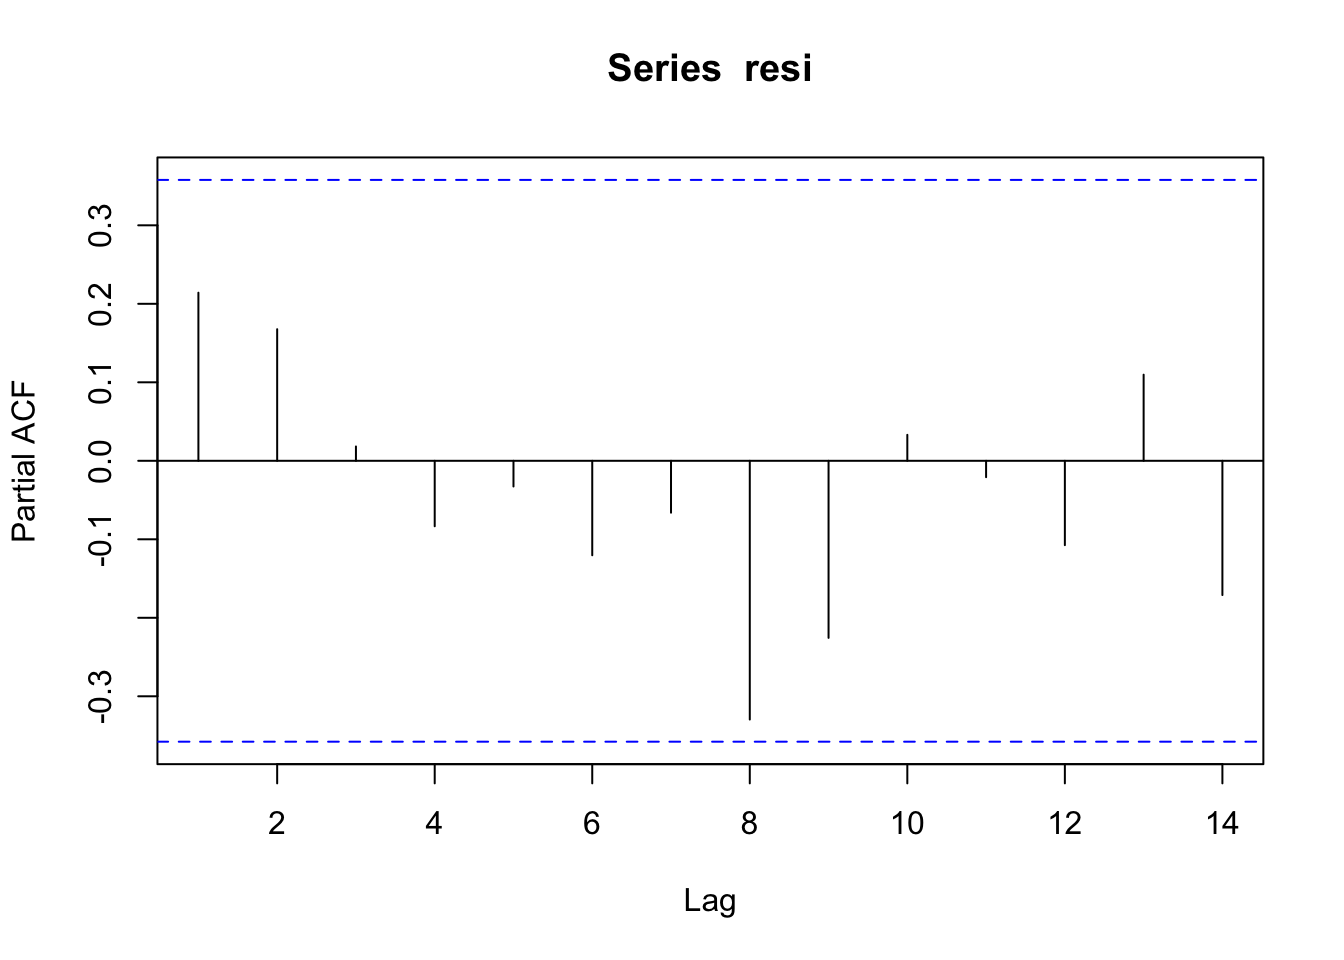
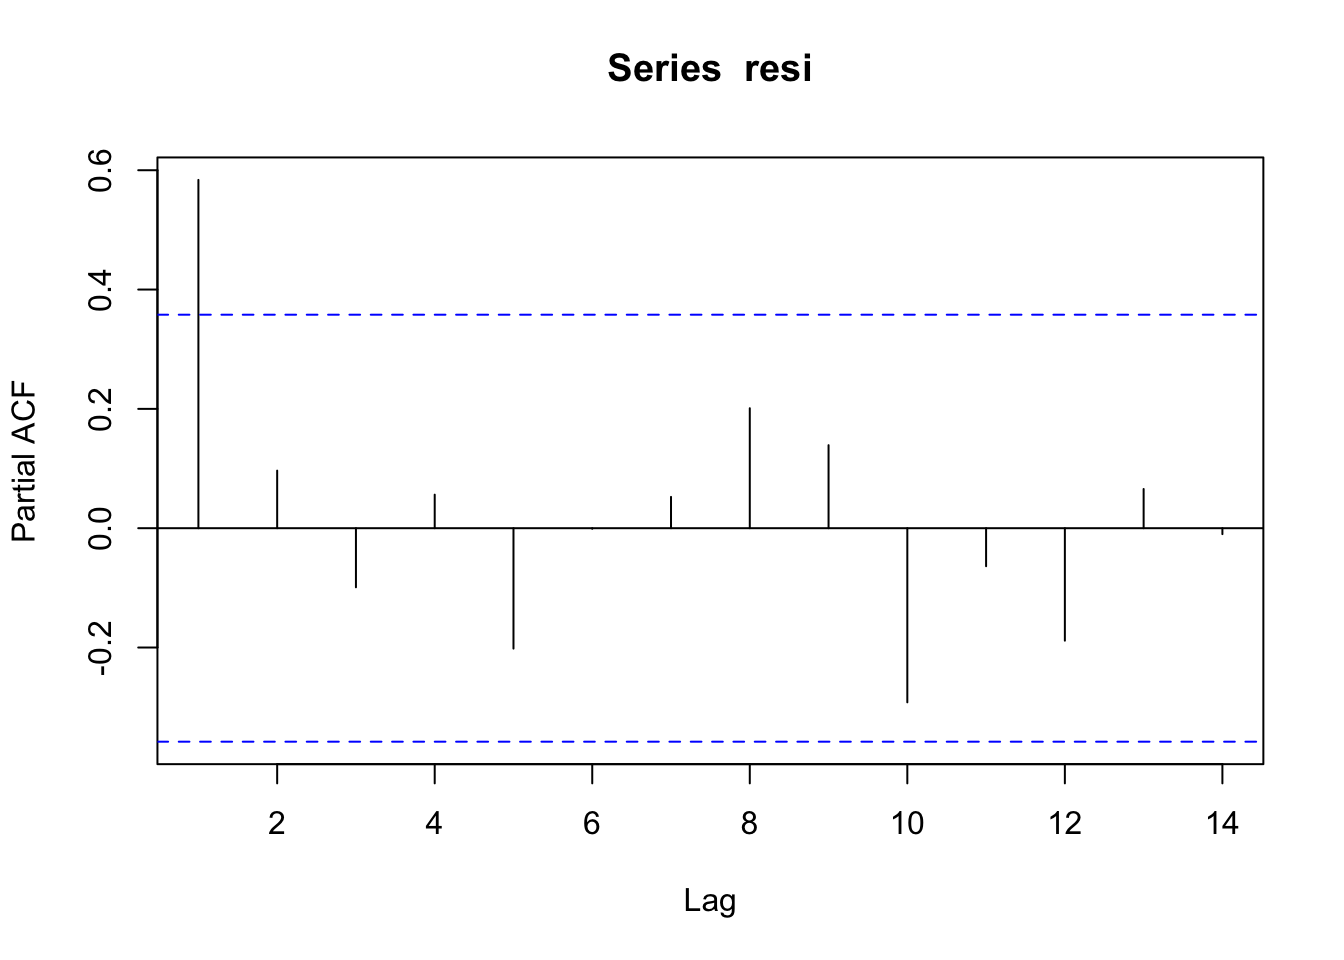
add sampling list hist

diff --git a/autocorrelation.html b/autocorrelation.html
@@ -211,7 +211,7 @@ x &lt;- mvrnorm(n=m,mu=c(0.05,0.08),
              Sigma=matrix(c(0.0004,0.00023,0.00023,0.0006),
                           nrow=2,ncol=2,byrow=TRUE))
 ## assuming correlation in x
-et &lt;- arima.sim(list(order = c(1,0,0),ar=0.6),n=m,rand.gen=rnorm,sd=0.1)
+et &lt;- arima.sim(list(order = c(1,0,0),ar=0.8),n=m,rand.gen=rnorm,sd=0.1)
 yt &lt;- 1.2 + x %*% c(2.2,2.3)+et</code></pre>
 <p>Then we do regress <span class="math inline">\(y\)</span> on <span class="math inline">\(x\)</span> using OLS:</p>
 <pre class="r"><code>regressY &lt;- lm(yt~x)
@@ -221,23 +221,23 @@ summary(regressY)</code></pre>
 ## lm(formula = yt ~ x)
 ## 
 ## Residuals:
-##       Min        1Q    Median        3Q       Max 
-## -0.168331 -0.042144 -0.009908  0.068907  0.141394 
+##      Min       1Q   Median       3Q      Max 
+## -0.24428 -0.10017 -0.02142  0.10538  0.25183 
 ## 
 ## Coefficients:
 ##             Estimate Std. Error t value Pr(&gt;|t|)    
-## (Intercept)  1.13217    0.04554  24.859   &lt;2e-16 ***
-## x1           3.20209    0.92466   3.463   0.0018 ** 
-## x2           1.79299    0.68483   2.618   0.0143 *  
+## (Intercept)   1.1425     0.1088  10.497 4.97e-11 ***
+## x1            0.9243     1.5586   0.593    0.558    
+## x2            1.7082     1.0553   1.619    0.117    
 ## ---
 ## Signif. codes:  0 &#39;***&#39; 0.001 &#39;**&#39; 0.01 &#39;*&#39; 0.05 &#39;.&#39; 0.1 &#39; &#39; 1
 ## 
-## Residual standard error: 0.08294 on 27 degrees of freedom
-## Multiple R-squared:  0.6597, Adjusted R-squared:  0.6345 
-## F-statistic: 26.17 on 2 and 27 DF,  p-value: 4.782e-07</code></pre>
+## Residual standard error: 0.1348 on 27 degrees of freedom
+## Multiple R-squared:  0.1069, Adjusted R-squared:  0.04074 
+## F-statistic: 1.616 on 2 and 27 DF,  p-value: 0.2173</code></pre>
 <pre class="r"><code>regressY$coefficients</code></pre>
 <pre><code>## (Intercept)          x1          x2 
-##    1.132170    3.202087    1.792995</code></pre>
+##   1.1424701   0.9243041   1.7081606</code></pre>
 <p>Test the autocorrelation of residuals</p>
 <pre class="r"><code>resi &lt;- regressY$residuals
 pacf(resi)</code></pre>
@@ -249,13 +249,13 @@ pacf(resi)</code></pre>
 ## 
 ## Coefficients:
 ##       1        2        3        4        5        6        7        8  
-## -0.8249  -0.0756   0.1893  -0.5216   0.3255  -0.4818   0.8980  -0.4992  
-##       9       10       11       12       13       14  
-## -0.5066  -0.4612   0.0382   0.0729   0.9104  -0.8450  
+## -0.0152   0.1750  -0.1762   0.6447  -0.0145  -0.4063  -0.1430   0.1080  
+##       9       10       11       12       13  
+##  0.2367  -0.0468  -0.2621  -0.3969   0.2010  
 ## 
-## Intercept: 0.01136 (0.006316) 
+## Intercept: -0.05098 (0.01314) 
 ## 
-## Order selected 14  sigma^2 estimated as  0.0001309</code></pre>
+## Order selected 13  sigma^2 estimated as  0.001209</code></pre>
 <p>Do GLS</p>
 <p><span class="math display">\[y_t - \rho y_{t-1} = \alpha (1-\rho) + \beta_1(x_{1,t} - \rho  x_{1,t-1}) + \beta_2 (x_{2,t} - \rho  x_{2,t-1}) + w\]</span></p>
 <pre class="r"><code>## regress on resi hat
@@ -275,23 +275,27 @@ summary(regressY_GLS)</code></pre>
 ## 
 ## Residuals:
 ##       Min        1Q    Median        3Q       Max 
-## -0.161980 -0.032130 -0.006371  0.051233  0.168447 
+## -0.131503 -0.070833 -0.005986  0.030568  0.195638 
 ## 
 ## Coefficients:
 ##             Estimate Std. Error t value Pr(&gt;|t|)    
-## (Intercept)  0.87518    0.03602  24.295  &lt; 2e-16 ***
-## xprime1      2.49002    0.92270   2.699  0.01207 *  
-## xprime2      2.13367    0.63338   3.369  0.00236 ** 
+## (Intercept)   0.4112     0.0314  13.093 5.93e-13 ***
+## xprime1       2.3011     0.8793   2.617 0.014592 *  
+## xprime2       2.5518     0.6115   4.173 0.000297 ***
 ## ---
 ## Signif. codes:  0 &#39;***&#39; 0.001 &#39;**&#39; 0.01 &#39;*&#39; 0.05 &#39;.&#39; 0.1 &#39; &#39; 1
 ## 
-## Residual standard error: 0.08028 on 26 degrees of freedom
-## Multiple R-squared:  0.6401, Adjusted R-squared:  0.6124 
-## F-statistic: 23.12 on 2 and 26 DF,  p-value: 1.702e-06</code></pre>
+## Residual standard error: 0.09233 on 26 degrees of freedom
+## Multiple R-squared:  0.4874, Adjusted R-squared:  0.4479 
+## F-statistic: 12.36 on 2 and 26 DF,  p-value: 0.0001688</code></pre>
 <pre class="r"><code>alpha &lt;- regressY_GLS$coefficients[1]/(1-rho)
 alpha</code></pre>
 <pre><code>## (Intercept) 
-##    1.137018</code></pre>
+##   0.9882015</code></pre>
+<p>See if the residuals of GLS has autocorrelation:</p>
+<pre class="r"><code>resiGLS &lt;- regressY_GLS$residuals
+pacf(resiGLS)</code></pre>
+<p><img src="autocorrelation_files/figure-html/unnamed-chunk-5-1.png" width="672" /></p>
 <p>We redo the above steps for n times:</p>
 <pre class="r"><code>n=2000
 OLS_coefs &lt;- matrix(nrow=n,ncol=3)
@@ -301,7 +305,7 @@ for(i in 1:n) {
                Sigma=matrix(c(0.0004,0.00023,0.00023,0.0006),
                             nrow=2,ncol=2,byrow=TRUE))
   ## assuming autocorrelation in x
-  et &lt;- arima.sim(list(order = c(1,0,0),ar=0.6),n=m,rand.gen=rnorm,sd=0.1)
+  et &lt;- arima.sim(list(order = c(1,0,0),ar=0.8),n=m,rand.gen=rnorm,sd=0.1)
   yt &lt;- 1.2 + x %*% c(2.2,2.3)+et
   
   regressY &lt;- lm(yt~x)
@@ -325,14 +329,18 @@ for(i in 1:n) {
   GLS_coefs[i,] &lt;- CochraneOrcuttIteration(yt,x,0.001)
 }
 colMeans(OLS_coefs)</code></pre>
-<pre><code>## [1] 1.202437 2.156343 2.288972</code></pre>
+<pre><code>## [1] 1.200474 2.209198 2.276608</code></pre>
 <pre class="r"><code>colMeans(GLS_coefs)</code></pre>
-<pre><code>## [1] 1.198569 2.207025 2.301260</code></pre>
-<p>The variance of sampling distribution of GLS is much smaller than that of OLS, and is therefore more effieicnt.</p>
+<pre><code>## [1] 1.198680 2.214203 2.288142</code></pre>
+<p>The variance of the sampling distribution of GLS is much smaller than that of the OLS, and is therefore more effieicnt.</p>
 <pre class="r"><code>colVars(OLS_coefs)</code></pre>
-<pre><code>## [1] 0.008114863 1.769628798 1.193183102</code></pre>
+<pre><code>## [1] 0.01715496 2.66804156 1.67986926</code></pre>
 <pre class="r"><code>colVars(GLS_coefs)</code></pre>
-<pre><code>## [1] 0.005881866 1.015788454 0.693408818</code></pre>
+<pre><code>## [1] 0.01554929 0.83502748 0.53385034</code></pre>
+<pre class="r"><code>hist(OLS_coefs[,2],breaks=20,xlim=c(-5,10),ylim=c(0,600))</code></pre>
+<p><img src="autocorrelation_files/figure-html/unnamed-chunk-8-1.png" width="672" /></p>
+<pre class="r"><code>hist(GLS_coefs[,2],breaks=20,xlim=c(-5,10),ylim=c(0,600))</code></pre>
+<p><img src="autocorrelation_files/figure-html/unnamed-chunk-8-2.png" width="672" /></p>
 
 
 
